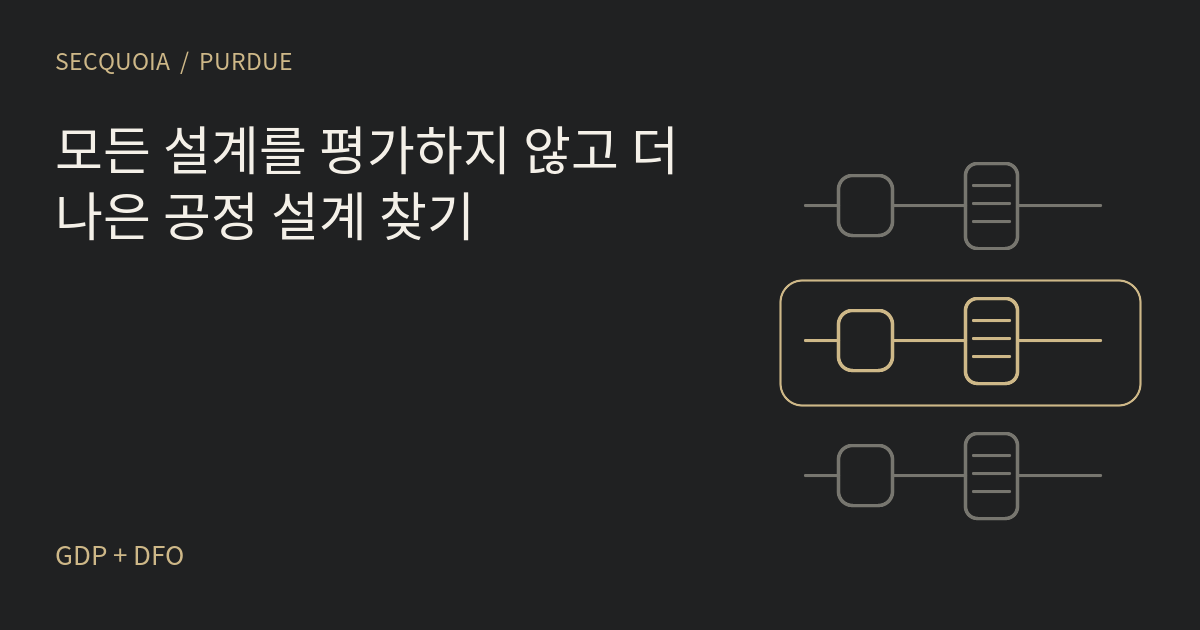
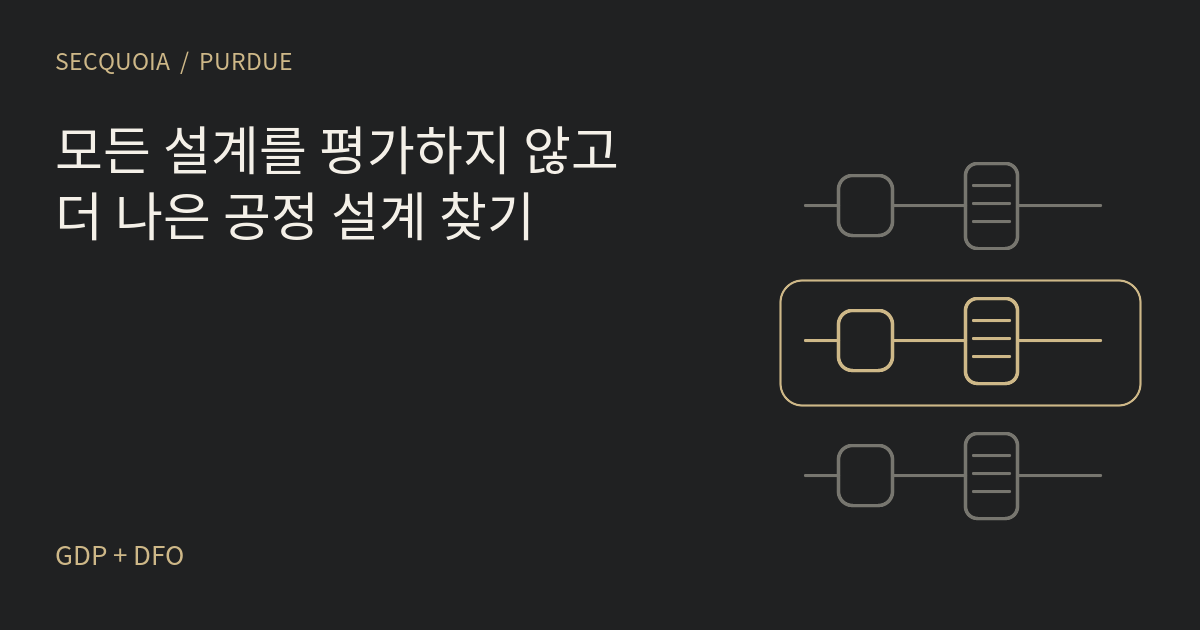
Refine localized cover descriptions and Korean title wrapping

Changed region(s): [[0.0308, 0.3016, 0.4625, 0.3921], [0.5242, 0.2111, 0.5858, 0.2714]]

diff --git a/scripts/render_gdp_blog_assets.py b/scripts/render_gdp_blog_assets.py
@@ -85,7 +85,7 @@ def main():
         family = "Noto Sans CJK KR" if language == "ko" else "DejaVu Sans Condensed"
         font_file = args.korean_font if language == "ko" else Path("/usr/share/fonts/truetype/dejavu/DejaVuSansCondensed.ttf")
         font = lambda size: ImageFont.truetype(str(font_file), size)
-        title = wrap(meta["title"], font(52), 670)
+        title = wrap(meta["title"], font(52), 600 if language == "ko" else 670)
         if len(title) > 5:
             raise ValueError(f"{language}: cover title needs more than five lines")
         content = text_lines(["SECQUOIA  /  PURDUE"], 55, 70, 23, family, GOLD)

diff --git a/articles/gdp-configuration-search/es.md b/articles/gdp-configuration-search/es.md
@@ -5,7 +5,7 @@ description: "Cómo la optimización sin derivadas conecta modelos de procesos, 
 author: "Albert Joon Lee, Woosik Kim y David E. Bernal Neira"
 image: assets/images/gdp-configuration-search/cover-es.webp
 social_image: /assets/images/gdp-configuration-search/cover-es.png
-social_image_alt: "Portada de SECQUOIA: diagramas de flujo de posibles procesos se conectan con una trayectoria de búsqueda dorada, con un diseño seleccionado para evaluar."
+social_image_alt: "Portada de SECQUOIA: tres diagramas de flujo de procesos candidatos, con el diseño central resaltado en dorado para su evaluación."
 methodology_image_alt: "Proponer una configuración. Evaluar el diseño seleccionado. Elegir la siguiente configuración."
 social_image_width: 1200
 social_image_height: 630

diff --git a/_posts/2026-11-07-gdp-configuration-search.md b/_posts/2026-11-07-gdp-configuration-search.md
@@ -5,7 +5,7 @@ description: "How derivative-free optimization connects process models, simulato
 author: "Albert Joon Lee, Woosik Kim, and David E. Bernal Neira"
 image: assets/images/gdp-configuration-search/cover-en.webp
 social_image: /assets/images/gdp-configuration-search/cover-en.png
-social_image_alt: "SECQUOIA cover: candidate process flowsheets connect to a gold search path, with one design selected for evaluation."
+social_image_alt: "SECQUOIA cover: three candidate process flowsheets, with the middle design highlighted in gold for evaluation."
 methodology_image_alt: "Propose a configuration. Evaluate the selected design. Choose the next configuration."
 social_image_width: 1200
 social_image_height: 630
